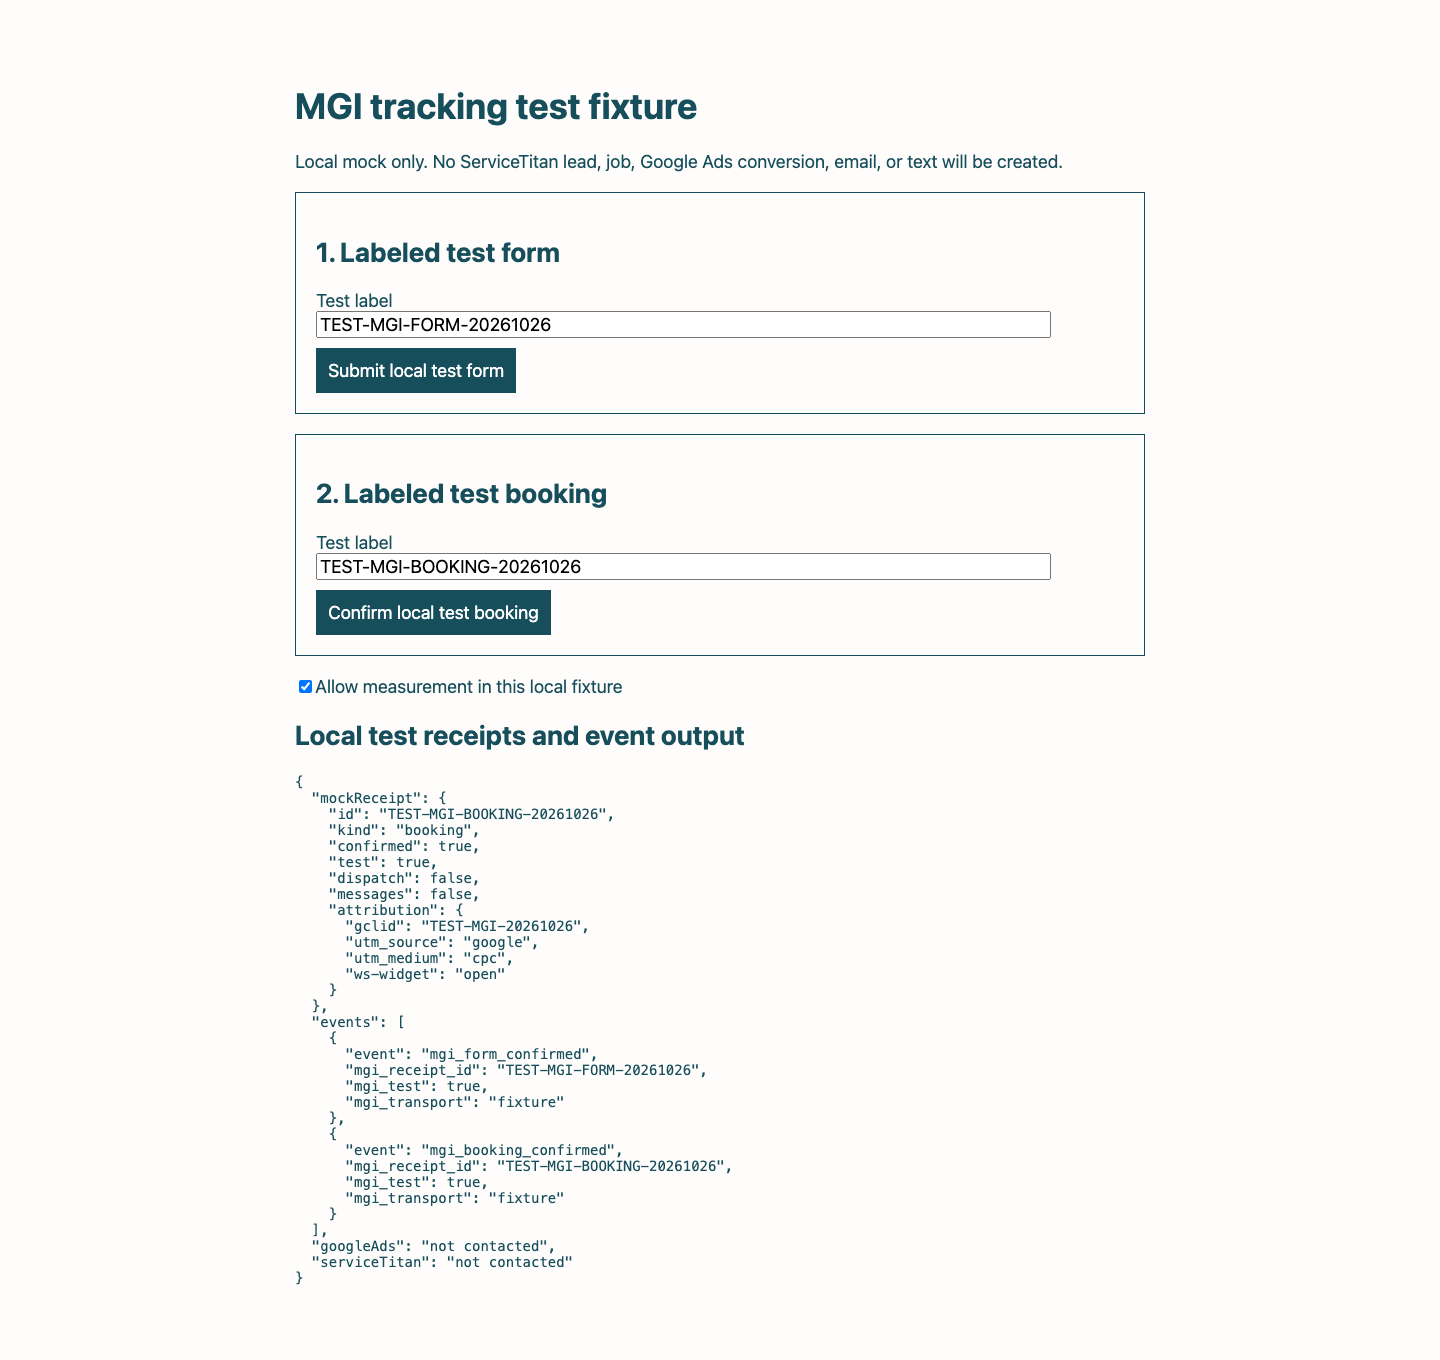
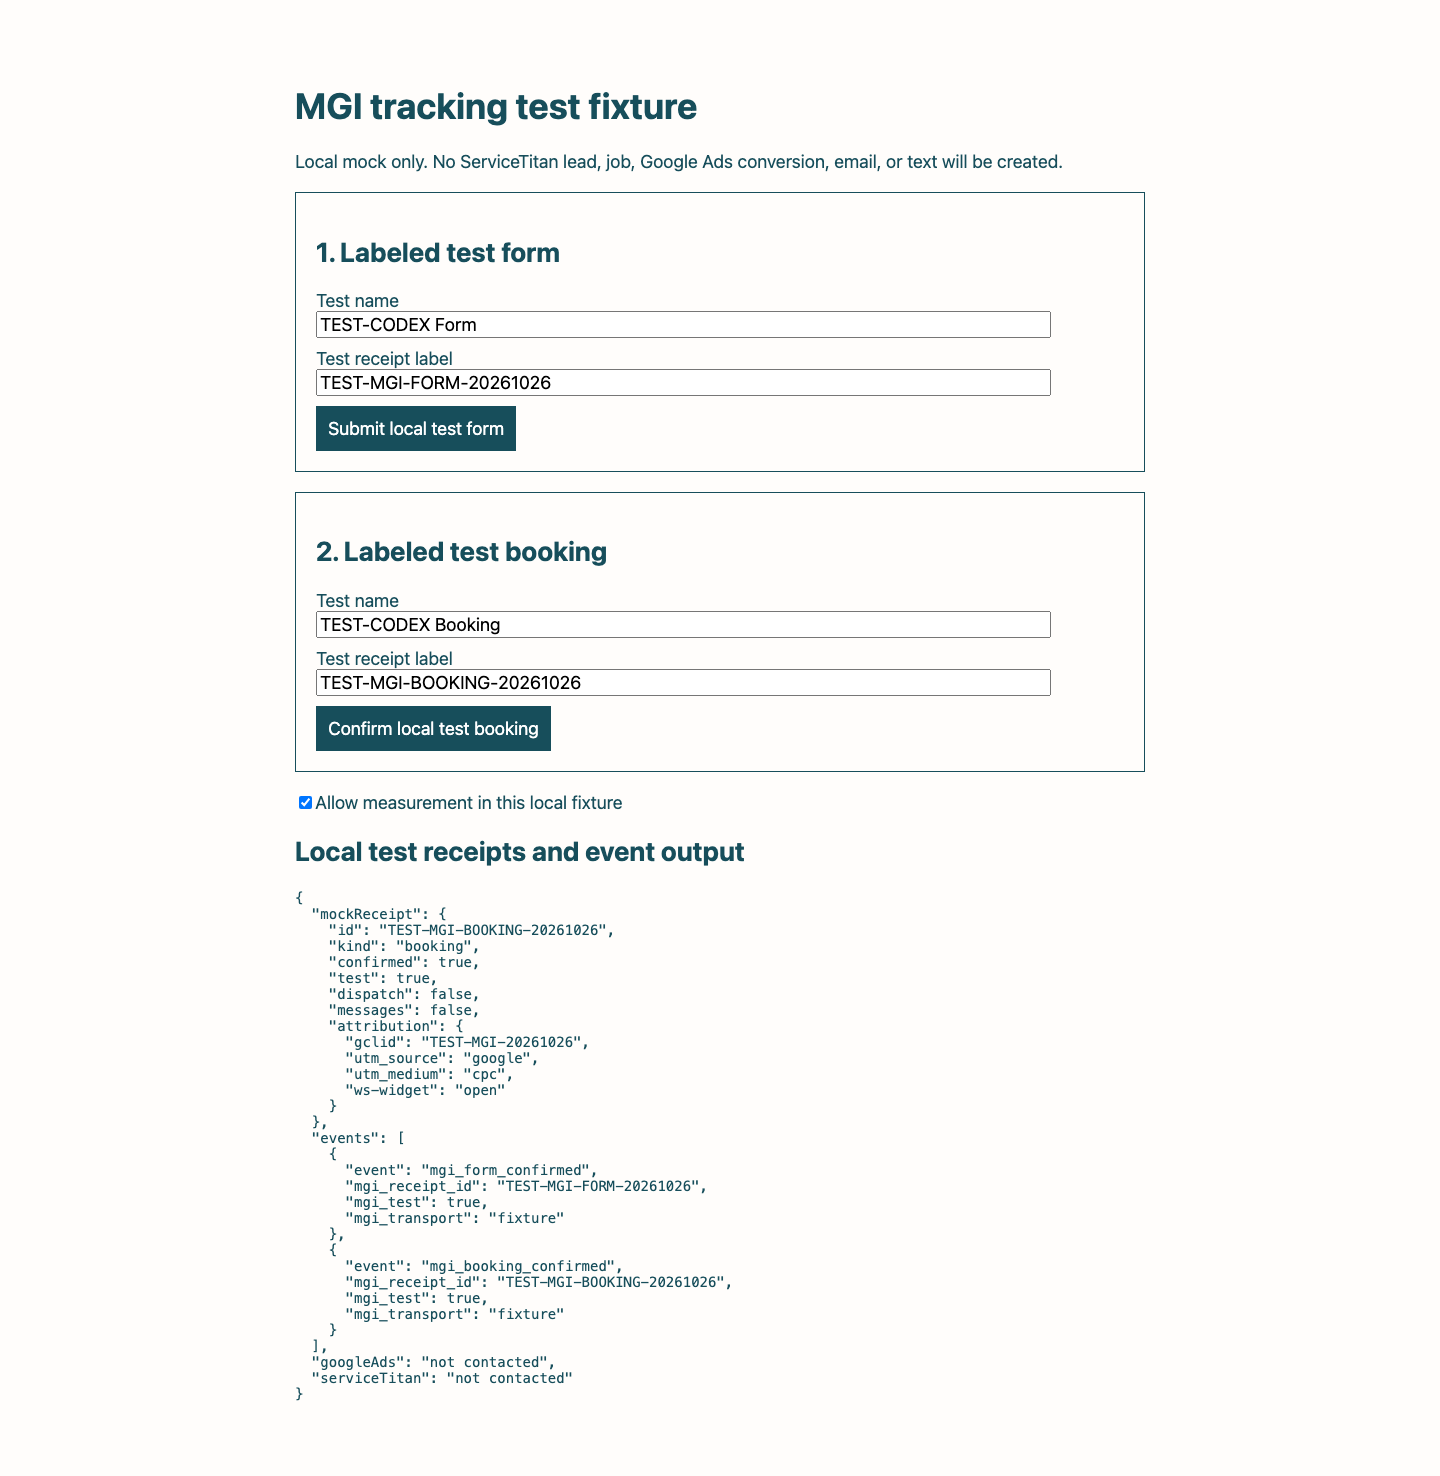
Record partial live tracking release, blockers, and rollback

Changed region(s): [[0.1875, 0.3397, 0.5312, 0.9574], [0.2188, 0.1544, 0.4062, 0.3088], [0.1875, 0.0618, 0.75, 0.1235]]

diff --git a/tracking-repair/2026-10-27_Deployment.md b/tracking-repair/2026-10-27_Deployment.md
@@ -8,4 +8,54 @@ Original 39 checks and 8 local browser checks pass again. Added a narrow same-ta
 
 Release method: merge source branch locally, compile the scheduler module, then overlay only that module reference and its dependency graph on the verified current live artifact. Preserve SMS, financing, Worker, routes, consent/DNI, and all unrelated bytes. Do not deploy full source output.
 
-Deployment, GTM, live smoke results, blockers, and rollback receipt will be appended before closeout.
+## Result: partial improvement shipped
+
+Source merged locally into Astro main at `279808529802ddad9ec613e8932f057a6dc19a3c`: approved 33913c4 plus narrow same-tab consent coordination. Cloudflare deployment **512841d4-d818-4867-8aad-a6cbf511982d**, published October 27 at 09:10:48 Mountain, serves https://mgiheatingandair.com. Immutable deployment URL: https://512841d4.mgi-heating-and-air.pages.dev. Previous deployment: **2bd116ce-64e9-4924-9ed1-60616245b9f1**. Hosting config hash unchanged. No DNS/domain/account/number/scheduler/Ads setting changed.
+
+Deployment implementation and evidence live separately in `../../Website-Astro-Tracking-Release-2026-10-27/`, branch `codex/mgi-paid-tracking-release-2026-10-27`, evidence `evidence/tracking-2026-10-27/`.
+
+## Verification and actual change
+
+- Original 39 checks passed again; with added same-tab coordination case, 40/40 pass. Eight local browser fixture checks pass with zero external requests. Two additional production-origin overlay scenarios using actual candidate JavaScript and mocked provider requests pass for granted/denied consent.
+- All 1,285 local baseline artifact files match the prior saved manifest. All 1,281 public baseline files match the prior deployment.
+- Candidate changes exactly 741 inline scheduler script references and adds two modules. Reversing every script replacement reproduces its baseline HTML exactly. All unrelated existing assets, Worker, routes, consent/DNI bundle, SMS disclosure, and financing content remain identical. No fixture, document, or mock reporter deployed.
+- Live sweep: 1,279 files matched initially; four requests returned HTTP 500. Exact targeted retry returned HTTP 200 and matching bytes for all four. All 1,283 public candidate files are accounted for. Four Cloudflare control files are not publicly served; their artifact hashes remain unchanged.
+- Live visit with `?gclid=TEST_CODEX&utm_source=google&utm_medium=cpc` loaded the new module and vendor shim. Browser attribution held exact TEST_CODEX/google/cpc. Widget opened to Repair/Install/Maintenance. No contact details entered, no call placed, and no provider submission. Vendor persistence/export remains unknown.
+- GTM-5NWW55ZN workspace 10 Preview connected. Existing GA4 base, explicit page_view, and ST DNI each fired once. Live version remains 9. No GTM tag edit or new publication: spec is review-only and its adapters/labels are null.
+- Manual local fixture used names TEST-CODEX Form and TEST-CODEX Booking, stable receipt IDs, and gclid TEST_CODEX/google/cpc. One confirmed mock event per kind; dispatch=false, messages=false; Google Ads and ServiceTitan not contacted. Local server stopped afterward.
+- MGI debug session stopped and preview pages closed. Removed only synthetic TEST_CODEX first-party attribution/session values in both test browsers. Privacy preferences unchanged. Live-widget and fixture screenshots saved and inspected; phone-size checks are local, not a claim of live mobile acceptance.
+
+## Google Ads recheck, account 350-839-2399
+
+| Action | Diagnostic after deployment | Last tag activity | Why not reactivated by this release |
+|---|---|---|---|
+| Form Submit Thank You Page - Main Site | Tag inactive | July 23, 2025 | No verified saved-form adapter or matching old-action snippet was activated |
+| Schedule Service (main site) | Tag inactive | July 15, 2025 | Widget transport/opening is not saved-booking completion; completion contract remains unknown |
+| Thank You Page Conversion | Tag inactive | October 2, 2025 | Legacy thank-you trigger not restored or repointed; page load is not saved receipt proof |
+| 970-287-1673 - Main Site | Tag inactive | July 2, 2024 | No old phone conversion tag or competing Google number swap restored; ST completed-call receipt unknown |
+
+Dates are tag activity, not last conversions. Underlying provider eligibility/export root causes remain unknown. Every conversion action/history/goal/bid/campaign/budget was preserved.
+
+## Blockers and exact next steps
+
+1. **GTM conversion activation: ServiceTitan then Codex.** Inspected spec, accessible workspace 10, live version, and successful Preview. File is not an importable export and has null form/booking adapters and labels. Need exact persistent success/receipt contract plus existing action ID/label definitions. Codex can then construct and verify real tags. Reu's approval is recorded; missing implementation inputs, not repeat approval, block activation. No empty or misleading GTM version published.
+2. **Safe provider test: ServiceTitan/Jesse then Codex.** Both labeled mocks ran. Isolated provider intake with no real job, lead, reservation, or customer automation is not verified. Need vendor-confirmed isolation and saved receipt/export evidence. Do not use Scheduler Preview or production submissions to force a pass. TEST_CODEX is transport proof, not an eligible Ads click.
+3. **Call imports: ServiceTitan then Codex.** Need exact eligibility and row-level accepted/rejected export receipt. Browser transport cannot repair a server import. No ST configuration or existing mappings/numbers changed.
+
+Not shipped: mock pages/server/reporter, disabled GTM spec, any new conversion event tag, action retirement/repointing, or old-site shutdown. Only the actual scheduler runtime and its policy dependency were deployed. Old site/container and October 30 work were not inspected or modified in this release.
+
+## Rollback, one command
+
+```sh
+node /Volumes/LNserver/Dropbox/Clients/MGI-Heating-Air/01_Projects/Website-Astro-Tracking-Release-2026-10-27/scripts/rollback-tracking.mjs
+```
+
+This rolls back only from 512841d4 to prior 2bd116ce, refuses to overwrite a newer deployment, verifies the resulting canonical ID, and records a receipt. Syntax checked, not executed. After rollback verify canonical ID, homepage/widget, SMS disclosure, and financing links. No GTM rollback needed because no version was published. No ServiceTitan data rollback occurs.
+
+## Lessons, environment, and control reconciliation
+
+Full source publication would remove accepted overlays. Exact artifact parity enabled the narrow repair. Keep source and deployment repos separate, retain the prior-deployment guard, and distinguish local receipt simulation from actual provider persistence/export/Ads attribution. Production transport improved; conversion acceptance did not close.
+
+Control reconciliation: Current state=Updated root Active-Work.md; Trajectory=Updated root Project-Arc.md for transport milestone only; AGENTS=Not required. Root Brand Guide Chapters 11, 16, and 17 checked; no writing exception.
+
+Operational exception: Tag Assistant's automatic browser-tool URL output exposed a preview authorization value. It was not saved to project files or repeated here. The MGI debug session was stopped and preview tabs closed. No account credential was entered or changed. Prior tool output cannot be erased; Reu may choose to reset new-container preview authorization separately.

diff --git a/tracking-repair/README.md b/tracking-repair/README.md
@@ -1,5 +1,7 @@
 # MGI paid tracking repair candidate, October 26, 2026
 
+**October 27 update:** scheduler transport shipped to https://mgiheatingandair.com in Cloudflare deployment `512841d4-d818-4867-8aad-a6cbf511982d`, preserving the live overlays. GTM stays on version 9; real lead/booking/call conversion acceptance remains unknown. [Deployment, evidence, blockers, and one-step rollback](2026-10-27_Deployment.md). The candidate record below is historical.
+
 Status: PARTIAL, branch and local fixtures only. Nothing published or changed in Google Ads, GTM, ServiceTitan, DNS, or the live site. Reu's written approval is required for every live release. No actions deleted. Jesse owns the old contact-number decision.
 
 Branch: `codex/mgi-paid-tracking-repair-2026-10-26`, source base `54800ce`.
